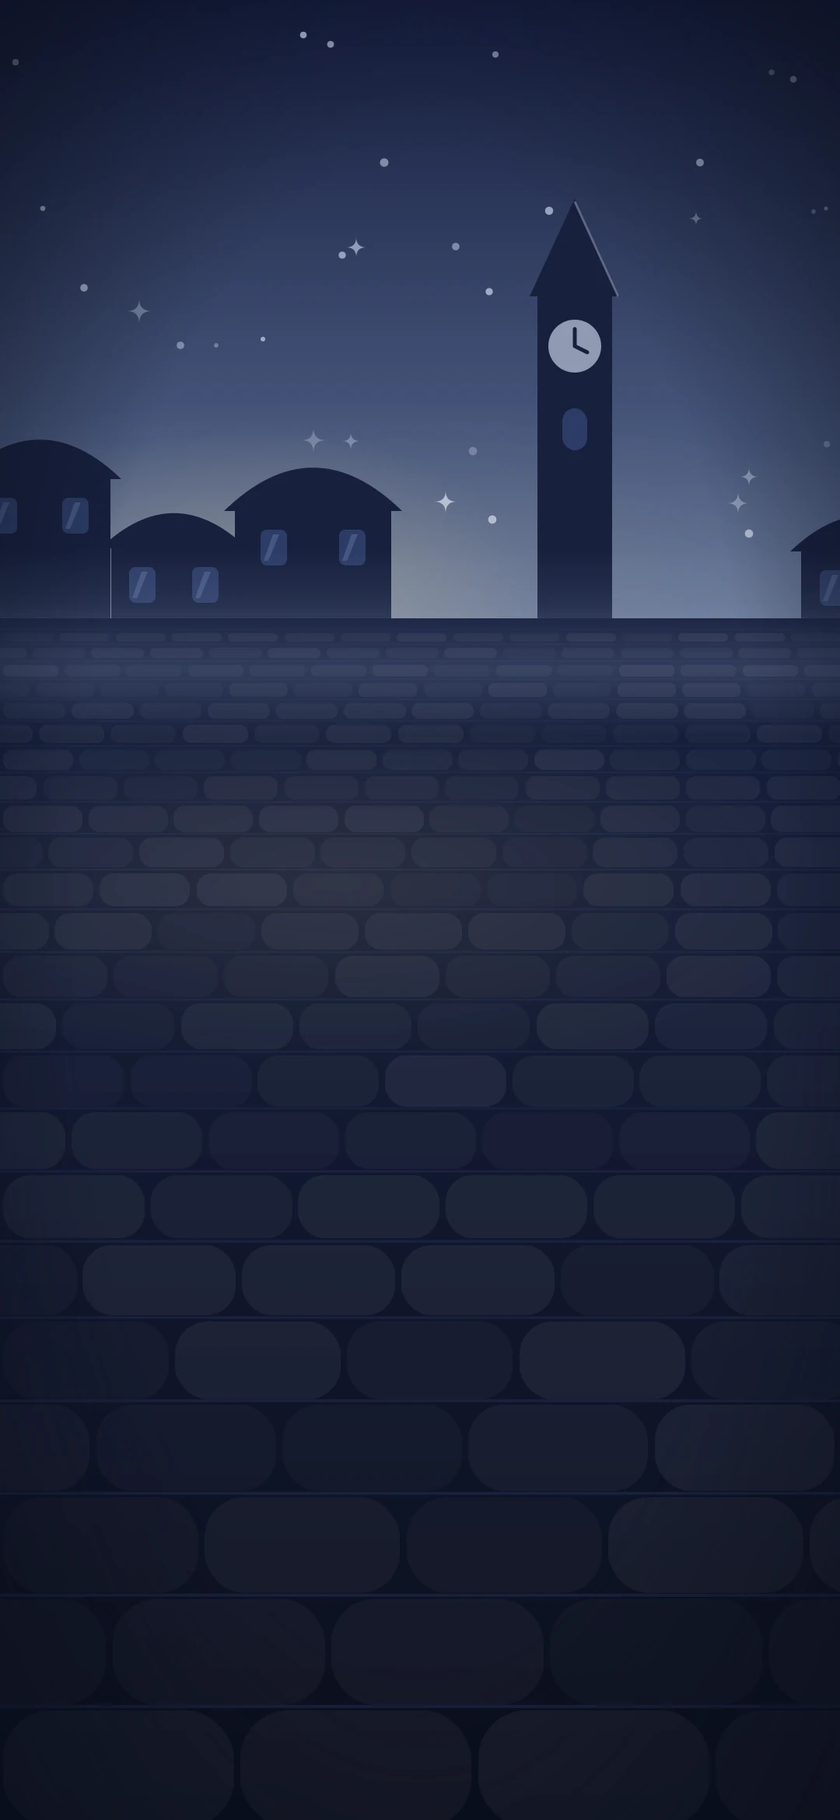
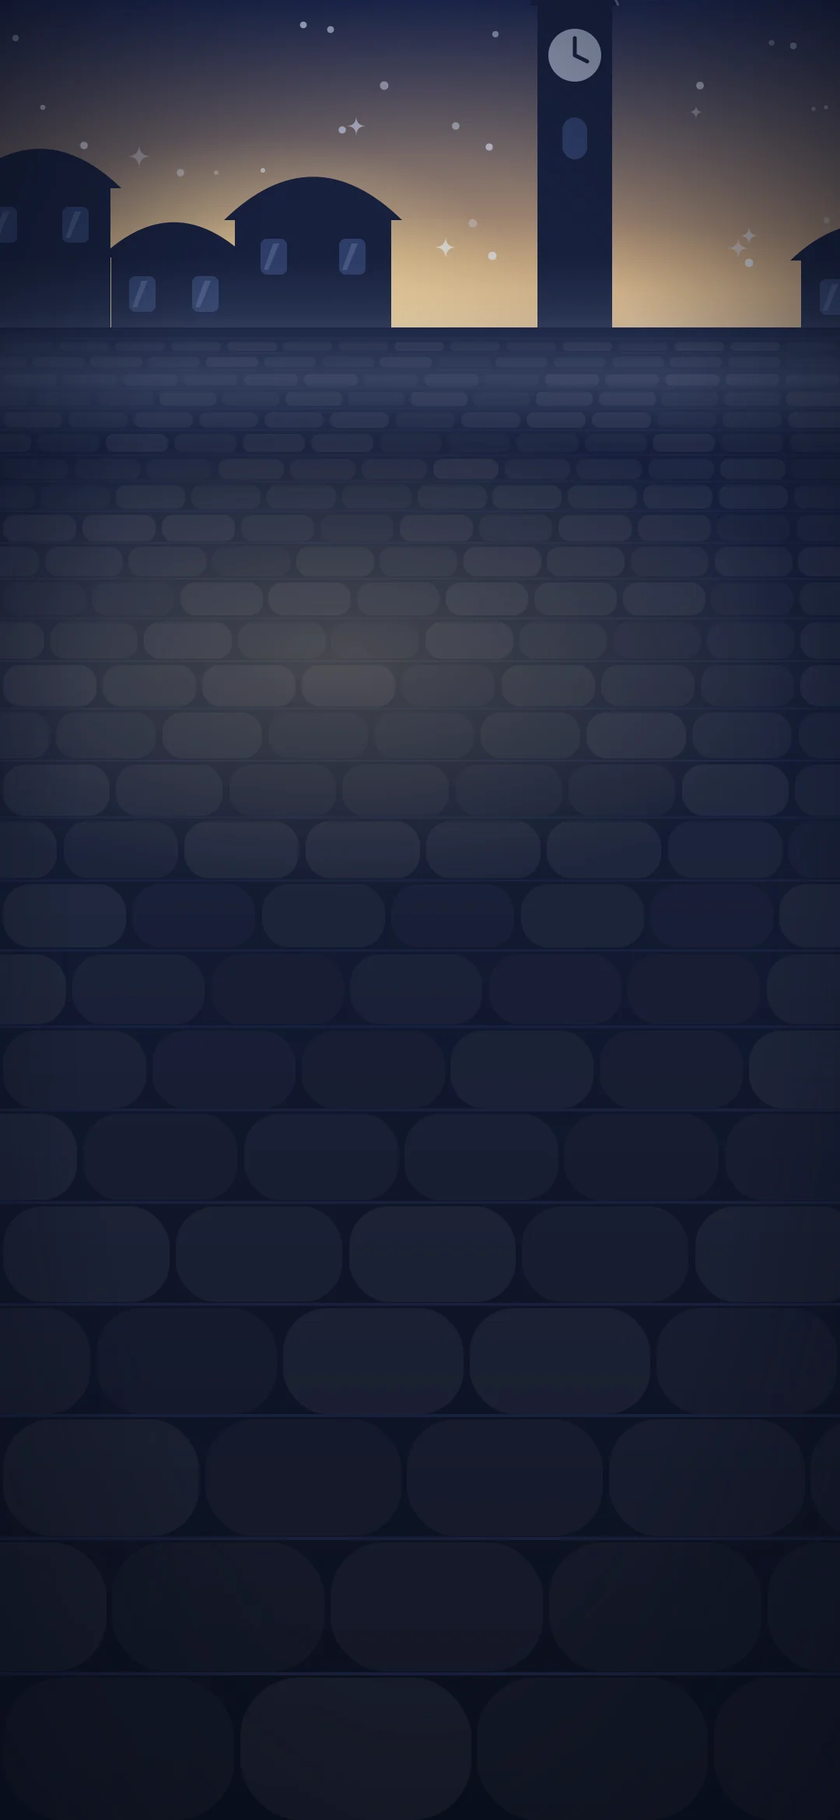
feat(bg): 배경 v3(지평선 18%)·방장 배지 적용, 헤더 막 .80/.70/.55 와 해질녘·처형 막 추가
Claude-Session: https://claude.ai/code/session_01FCTtG9gzLDiavkmfWVt6rc

diff --git a/test/unit/scenes.test.ts b/test/unit/scenes.test.ts
@@ -45,8 +45,8 @@ describe("장면 목록(SCENES)", () => {
     expect(SCENES.verdictDusk.file).toBe("verdict_dusk");
   });
 
-  it("헤더 위쪽 어두운 막은 아침·낮만(set1), entry 구도는 lobby 만 갖는다", () => {
-    expect(SCENE_IDS.filter((id) => SCENES[id].scrim)).toEqual(["morning", "day"]);
+  it("헤더 위쪽 어두운 막은 아침·낮·해질녘·처형만, entry 구도는 lobby 만 갖는다", () => {
+    expect(SCENE_IDS.filter((id) => SCENES[id].scrim)).toEqual(["morning", "day", "dusk", "verdictDusk"]);
     expect(SCENE_IDS.filter((id) => SCENES[id].entry)).toEqual(["lobby"]);
   });
 });
@@ -113,11 +113,11 @@ describe("전환 상수와 헤더 막", () => {
     expect(readFileSync("src/styles/tokens.css", "utf8")).toContain("--dur-slow: 800ms;");
   });
 
-  it("HEADER_SCRIM_STOPS: 시안 .66/.42/.18/0 에서 .70/.58/.40/0 으로 올렸다 (사용자 규칙 4.5:1, 길이 150px 은 그대로)", () => {
+  it("HEADER_SCRIM_STOPS: 시안 .66/.42/.18/0 에서 .70/.58/.40/0, 새 배경(v3)에서 .80/.70/.55/0 으로 올렸다 (사용자 규칙 4.5:1, 길이 150px 은 그대로)", () => {
     expect(HEADER_SCRIM_STOPS).toEqual([
-      [0, 0.7],
-      [60, 0.58],
-      [110, 0.4],
+      [0, 0.8],
+      [60, 0.7],
+      [110, 0.55],
       [150, 0],
     ]);
     expect(HEADER_SCRIM_LENGTH_PX).toBe(150);
@@ -127,9 +127,9 @@ describe("전환 상수와 헤더 막", () => {
   it("headerScrimGradient(): night-900 토큰 color-mix 를 쓰고 150px 끝이 투명이다", () => {
     expect(headerScrimGradient()).toBe(
       "linear-gradient(to bottom, " +
-        "color-mix(in srgb, var(--night-900) 70%, transparent) 0px, " +
-        "color-mix(in srgb, var(--night-900) 58%, transparent) 60px, " +
-        "color-mix(in srgb, var(--night-900) 40%, transparent) 110px, " +
+        "color-mix(in srgb, var(--night-900) 80%, transparent) 0px, " +
+        "color-mix(in srgb, var(--night-900) 70%, transparent) 60px, " +
+        "color-mix(in srgb, var(--night-900) 55%, transparent) 110px, " +
         "color-mix(in srgb, var(--night-900) 0%, transparent) 150px)",
     );
     expect(headerScrimGradient()).not.toMatch(/#[0-9a-f]{3,8}/i);
@@ -148,13 +148,13 @@ const EXPECTED_FILES = [
   "bg_game_verdict_dusk.webp",
 ];
 const LIMIT_KB: Record<string, number> = {
-  "bg_game_lobby.webp": 48,
-  "bg_game_night.webp": 48,
-  "bg_game_dusk.webp": 48,
-  "bg_game_verdict_dusk.webp": 48,
-  "bg_game_morning.webp": 24,
-  "bg_game_day.webp": 24,
-  "bg_entry_lobby.webp": 64,
+  "bg_game_lobby.webp": 40,
+  "bg_game_night.webp": 40,
+  "bg_game_dusk.webp": 40,
+  "bg_game_verdict_dusk.webp": 40,
+  "bg_game_morning.webp": 40,
+  "bg_game_day.webp": 40,
+  "bg_entry_lobby.webp": 52,
 };
 const TOTAL_LIMIT_KB = 260;
 
@@ -171,7 +171,7 @@ describe("public/backgrounds (WebP 일곱 개, 옛 SVG 는 없다)", () => {
     }
   });
 
-  it("장면 하나 ≤ 상한(set2 game 48KB · set1 24KB · entry 64KB), 합계 ≤ 260KB", () => {
+  it("장면 하나 ≤ 상한(game 40KB · entry 52KB), 합계 ≤ 260KB", () => {
     let total = 0;
     for (const name of EXPECTED_FILES) {
       const size = statSync(`public/backgrounds/${name}`).size;
@@ -181,10 +181,11 @@ describe("public/backgrounds (WebP 일곱 개, 옛 SVG 는 없다)", () => {
     expect(total / KB).toBeLessThanOrEqual(TOTAL_LIMIT_KB);
   });
 
-  it("원본(design/backgrounds/A_cute 와 v2)은 그대로 남아 있다", () => {
+  it("원본(design/backgrounds/A_cute·v2·v3)은 그대로 남아 있다", () => {
     expect(existsSync("design/backgrounds/A_cute/bg_entry_lobby.svg")).toBe(true);
     expect(existsSync("design/backgrounds/v2/set2/bg_game_night.png")).toBe(true);
     expect(existsSync("design/backgrounds/v2/set1/bg_game_day.jpg")).toBe(true);
+    expect(existsSync("design/backgrounds/v3/bg_game_night.png")).toBe(true);
   });
 });
 
@@ -196,19 +197,16 @@ describe("scripts/make-backdrops.mjs (SOURCES)", () => {
     expect(SOURCES.map((s) => s.out).sort()).toEqual(EXPECTED_FILES);
   });
 
-  it("원본이 모두 design/backgrounds/v2 안에 있고 파일이 존재한다. 아침·낮은 set1, 나머지는 set2", () => {
+  it("원본이 모두 design/backgrounds/v3 안에 있고 파일이 존재한다", () => {
     for (const s of SOURCES) {
-      expect(s.src.startsWith("design/backgrounds/v2/"), s.src).toBe(true);
+      expect(s.src.startsWith("design/backgrounds/v3/"), s.src).toBe(true);
       expect(existsSync(s.src), s.src).toBe(true);
-      const isSet1 = s.out === "bg_game_morning.webp" || s.out === "bg_game_day.webp";
-      expect(s.src.includes("/set1/"), s.src).toBe(isSet1);
-      expect(s.src.includes("/set2/"), s.src).toBe(!isSet1);
     }
   });
 
-  it("품질 90, 상한은 장면별 예산과 같다", () => {
+  it("품질 86, 상한은 장면별 예산과 같다", () => {
     for (const s of SOURCES) {
-      expect(s.quality).toBe(90);
+      expect(s.quality).toBe(86);
       expect(s.maxKB, s.out).toBe(LIMIT_KB[s.out]);
     }
   });

diff --git a/src/game/scenes.ts b/src/game/scenes.ts
@@ -6,7 +6,7 @@
 //   Record<PhaseId, SceneId> 가 타입 오류로 알려 준다.
 // - 해·달: 그림에 이미 그려져 있고 장면마다 위치가 다르다(아침 해 오른쪽 위 → 낮 해 더 왼쪽·아래, 밤 달). 이미지에서 떼어낼 수 없으므로
 //   따로 그리거나 움직이지 않고 배경 크로스페이드에 맡긴다. 이중으로 보일 수 없다(결정 0030, 확인 필요 1).
-// - 아침·낮은 set1(밝은 하늘)이라 헤더 위쪽에 어두운 막이 필요하다(HEADER_SCRIM_STOPS). 4.5:1 은 오프라인 단위 테스트
+// - 아침·낮(밝은 하늘)과 해질녘·처형(360폭 타이머 4.42)은 헤더 위쪽에 어두운 막이 필요하다(HEADER_SCRIM_STOPS, 결정 0031). 4.5:1 은 오프라인 단위 테스트
 //   (test/unit/backdropContrast.test.ts)와 E2E H1 이 같은 값으로 잰다. 값을 바꾸려면 이 상수 한 곳만 고친다.
 import { DAY_ANNOUNCE_MS } from "../../shared/game/phases";
 import type { PhaseId } from "../../shared/protocol";
@@ -17,7 +17,7 @@ export type SceneId = (typeof SCENE_IDS)[number];
 export interface SceneDef {
   /** 파일 이름 조각: bg_{game|entry}_{file}.webp */
   file: string;
-  /** 헤더 위쪽 어두운 막이 필요한 장면(set1 의 아침·낮) */
+  /** 헤더 위쪽 어두운 막이 필요한 장면(막 없이는 헤더 글씨 대비가 4.5 미만인 장면: v3 의 아침·낮·해질녘·처형) */
   scrim: boolean;
   /** 입구(entry) 구도 그림이 있는 장면 */
   entry: boolean;
@@ -28,8 +28,8 @@ export const SCENES: Readonly<Record<SceneId, SceneDef>> = Object.freeze({
   night: Object.freeze({ file: "night", scrim: false, entry: false }),
   morning: Object.freeze({ file: "morning", scrim: true, entry: false }),
   day: Object.freeze({ file: "day", scrim: true, entry: false }),
-  dusk: Object.freeze({ file: "dusk", scrim: false, entry: false }),
-  verdictDusk: Object.freeze({ file: "verdict_dusk", scrim: false, entry: false }),
+  dusk: Object.freeze({ file: "dusk", scrim: true, entry: false }),
+  verdictDusk: Object.freeze({ file: "verdict_dusk", scrim: true, entry: false }),
 });
 
 export const PHASE_SCENE: Readonly<Record<PhaseId, SceneId>> = Object.freeze({
@@ -73,11 +73,11 @@ export const SCENE_FADE_MS = 800;
 /** 새 그림이 준비되기를 기다리는 상한. 넘으면 준비되지 않았어도 크로스페이드를 시작한다. */
 export const SCENE_IMAGE_WAIT_MS = 1200;
 
-/** 헤더 위쪽 어두운 막: [위에서의 거리 px, night-900 알파]. 시안 Y3·Y5 의 .66/.42/.18/0 은 타이머 구역 대비가 3.5~4.1:1 이라 .70/.58/.40/0 으로 올렸다(길이 150px 은 그대로). */
+/** 헤더 위쪽 어두운 막: [위에서의 거리 px, night-900 알파]. 시안 Y3·Y5 의 .66/.42/.18/0 은 타이머 구역 대비가 3.5~4.1:1 이라 .70/.58/.40/0 으로 올렸고, 지평선 18% 의 새 배경(v3)은 하늘이 더 밝아 .80/.70/.55/0 으로 다시 올렸다(길이 150px 은 그대로). */
 export const HEADER_SCRIM_STOPS: ReadonlyArray<readonly [number, number]> = [
-  [0, 0.7],
-  [60, 0.58],
-  [110, 0.4],
+  [0, 0.8],
+  [60, 0.7],
+  [110, 0.55],
   [150, 0],
 ];
 export const HEADER_SCRIM_LENGTH_PX = 150;

diff --git a/test/client/backdrop.test.tsx b/test/client/backdrop.test.tsx
@@ -187,7 +187,7 @@ describe("Backdrop 층 규칙", () => {
 });
 
 describe("헤더 위쪽 어두운 막", () => {
-  it("아침·낮 층만 인라인 사용자 지정 속성 --mf-scrim 을 싣고, 값은 HEADER_SCRIM_STOPS 의 그라데이션이다", async () => {
+  it("아침·낮·해질녘·처형 층만 인라인 사용자 지정 속성 --mf-scrim 을 싣고, 값은 HEADER_SCRIM_STOPS 의 그라데이션이다", async () => {
     stubImages("immediate");
     const { container, rerender } = render(<Backdrop layout="game" scene="morning" />);
     const scrimOf = () => [...container.querySelectorAll<HTMLElement>(".mf-backdrop__art")].map((el) => el.style.getPropertyValue("--mf-scrim"));
@@ -203,9 +203,18 @@ describe("헤더 위쪽 어두운 막", () => {
     expect(scrimOf()).toEqual([""]);
   });
 
-  it("lobby·night·dusk·verdictDusk 와 entry 층에는 막이 없다", () => {
+  it("해질녘·처형 층도 막을 싣는다 (v3 에서 360폭 타이머 대비가 4.5 미만이라 추가)", () => {
     stubImages("immediate");
-    for (const scene of ["lobby", "night", "dusk", "verdictDusk"] as const) {
+    for (const scene of ["dusk", "verdictDusk"] as const) {
+      const { container, unmount } = render(<Backdrop layout="game" scene={scene} />);
+      expect(container.querySelector<HTMLElement>(".mf-backdrop__art")!.style.getPropertyValue("--mf-scrim"), scene).toBe(headerScrimGradient());
+      unmount();
+    }
+  });
+
+  it("lobby·night 와 entry 층에는 막이 없다", () => {
+    stubImages("immediate");
+    for (const scene of ["lobby", "night"] as const) {
       const { container, unmount } = render(<Backdrop layout="game" scene={scene} />);
       expect(container.querySelector<HTMLElement>(".mf-backdrop__art")!.style.getPropertyValue("--mf-scrim"), scene).toBe("");
       unmount();

diff --git a/test/unit/backdropContrast.test.ts b/test/unit/backdropContrast.test.ts
@@ -166,14 +166,13 @@ describe("막이 필요하다는 사실을 고정한다", () => {
 });
 
 describe("막이 필요한 장면은 SCENES.scrim 과 일치한다", () => {
-  it("막 없이도 4.5 를 넘는 장면에는 막을 달지 않는다 (night·dusk·verdictDusk), 넘지 못하는 아침·낮에는 막이 있다", async () => {
+  it("막이 없는 장면(night)은 세 폭 모두 막 없이 4.5 이상, 막이 있는 장면은 어느 폭에선가 막 없이 4.5 미만이다", async () => {
     for (const scene of GAME_SCENES) {
       if (scene === "lobby") continue;
-      for (const w of WIDTHS) {
-        const bare = await contrastOf(scene, w, timerZone(w), "none");
-        if (SCENES[scene].scrim) expect(bare, `${scene}@${w}`).toBeLessThan(HEADER_CONTRAST_MIN);
-        else expect(bare, `${scene}@${w}`).toBeGreaterThanOrEqual(HEADER_CONTRAST_MIN);
-      }
+      const bares: number[] = [];
+      for (const w of WIDTHS) bares.push(await contrastOf(scene, w, timerZone(w), "none"));
+      if (SCENES[scene].scrim) expect(Math.min(...bares), scene).toBeLessThan(HEADER_CONTRAST_MIN);
+      else for (const b of bares) expect(b, scene).toBeGreaterThanOrEqual(HEADER_CONTRAST_MIN);
     }
   }, 30_000);
 });

diff --git a/src/styles/daytable.css b/src/styles/daytable.css
@@ -65,12 +65,8 @@
 
 /* 캐릭터 상자 안: 동료 마름모, 방장 왕관 배지(대기실만) */
 .mf-dt__mark { position: absolute; top: 4%; right: 8%; width: 26%; height: auto; aspect-ratio: 1; color: var(--crimson-400); pointer-events: none; }
-.mf-dt__crown {
-  position: absolute; left: -6px; top: -6px; width: 22px; height: 22px; border-radius: 50%;
-  background: var(--night-900); border: 1px solid var(--gray-300); color: var(--gray-50);
-  display: grid; place-items: center;
-}
-.mf-dt__crown .mf-icon { stroke-width: 2.2; }
+.mf-dt__crown { position: absolute; left: -6px; top: -6px; width: 22px; height: 22px; pointer-events: none; }
+.mf-dt__crown img { display: block; width: 100%; height: 100%; }
 
 /* 말하는 중(주장 차례·빠른 메시지 3초): 머리 위 '…' 말풍선. 자리 상자 안이라 상자와 함께 줄어들고 자리 쌓임 맥락(12~22)을 벗어나지 않는다.
    높이 26·좌우 11·모서리 13·꼬리 5, 위 -26px(승인 시안은 -30 이지만 8명판 이웃 얼굴을 덮어 -26). 점 셋은 차례로 깜박인다.

diff --git a/test/client/lobby.test.tsx b/test/client/lobby.test.tsx
@@ -74,7 +74,7 @@ describe("Lobby — 대기실 (S-03) 테이블", () => {
   it("방장 혼자면 테이블에 인물 1개뿐이고 빈 자리 그림은 없다", () => {
     render(<Lobby view={makeView([player(0, "민수")], 0)} send={() => {}} />);
     const table = screen.getByRole("group", { name: "테이블" });
-    expect(table.querySelectorAll("img").length).toBe(1);
+    expect(table.querySelectorAll("img.mf-figure").length).toBe(1);
   });
 
   it("끊긴 사람은 '{닉네임}, 연결 끊김' 으로 읽히고 인물이 흑백이다", () => {

diff --git a/src/components/DayTable.tsx b/src/components/DayTable.tsx
@@ -225,7 +225,7 @@ export function DayTable({
             {s.isAlly ? <Icon name="diamond" label={allyMarkLabel} className="mf-dt__mark" /> : null}
             {hostCrown && s.isHost ? (
               <span className="mf-dt__crown" role="img" aria-label="방장">
-                <Icon name="crown" size={13} />
+                <img src="/characters/host/host_badge.svg" alt="" aria-hidden="true" draggable={false} />
               </span>
             ) : null}
             {(s.turn || s.spoke) && !s.emoji ? (

diff --git a/HANDOFF.md b/HANDOFF.md
@@ -4,6 +4,7 @@
 
 ## 현재 상태
 
+- **배경 v3·유령·방장 배지(2026-10-26, 결정 0031) — 코드 적용, 미배포, 폰 확인 대기.** 배포본은 아직 `2026-10-26T01:57:25Z+e717ac0`(유령 교체 `06a4d07` 은 main 에만 있음). ① 배경: 데스크톱 v3(`design/backgrounds/v3/`, 지평선 18%, 사람이 하늘에 뜨던 문제 해결) → WebP 합계 231.9KB(품질 86) ② 밤 조명 3장(대기실·밤·처형 해질녘)은 조명 중심 (540, 915) 로 다시 받음 ③ 헤더 막 .80/.70/.55/0 + 해질녘·처형에도 막(360폭 타이머 4.42) ④ 새 유령(그림자 제거·발 y=374 정렬) ⑤ 방장 배지 `host_badge.svg` ⑥ D3b-5(5명판 98%) 유지. **정정**: 인자 없는 `npm run e2e` 는 배포본을 검사한다 — 로컬은 `npm run dev` 후 `npm run e2e -- --url http://localhost:5173`. 로컬 결과: 6흐름×3크기 통과, vitest 1895, E2E 단위 107. 남은 일: 폰 확인(후광·낮 느낌·낮밤 색 차이)과 배포·배포본 smoke/UAT/E2E.
 - **시각 개선 묶음(quick 261025-unr, 2026-10-25~26) — 근거 결정 0030.** 코드·테스트·E2E 규칙·결정·UI-SPEC 완료. 배포·push 완료, 실기기 확인 대기. **배포 버전 `2026-10-26T01:57:25Z+e717ac0`**(직전 `2026-10-25T11:40:42Z+d2af5a9`), 개인 Cloudflare 계정(`npx wrangler whoami` = dhkim1522@naver.com, `wrangler.jsonc` name = minifia)으로 Worker `minifia` 만 배포했다.
   - **무엇이 바뀌었나**: ① 발밑 원 전부(차례 링 앞뒤 호·내 링·동료 링·밤 선택 링)와 이름표 반전·머리 위 배지 제거 → 캐릭터 윤곽 **후광**(말하는 차례·밤에 내가 고른 대상은 흰, 마피아 동료·관전자 화면의 모든 마피아는 진홍, 안쪽 2px + 바깥 9px drop-shadow, 한 화면 최대 3개, 내 표시는 이름표 테두리뿐) ② 머리 위 **'…' 말풍선**(48×26, 위 −26px; 주장 차례 + 토론 빠른 메시지 3초, 이모티콘이 오면 이모티콘이 대신) ③ 방장 왕관은 **대기실에서만** ④ 낮 시작 전용 `Day` 화면 삭제 — `dayAnnounce` 도 테이블 장면 위, 밤·낮 시작 문구는 `SceneIntro` 한 부품(2초, 재접속·처음 마운트 제외) ⑤ 배경: 장면 6개(`src/game/scenes.ts` `SCENES`)·단계→장면 규칙표 `PHASE_SCENE`·WebP 7개(합계 248.0KB, 옛 SVG 합 약 356KB)·장면 사이 0.8초 크로스페이드·아침·낮(set1 밝은 하늘) 헤더 어두운 막 `HEADER_SCRIM_STOPS` .70/.58/.40/0 ⑥ 해·달은 이미지에 맡김(선택 B, 따로 움직이지 않음) ⑦ 봇 이름 5글자(봇가나다라·봇마바사아·봇자차카타·봇파하갸냐·봇더러머버·봇서어저처·봇커터퍼허) ⑧ 서버 규칙·시간·와이어·좌석 번호·낮 차례 순서는 불변(서버 쪽 변경은 `shared/game/bots.ts` 봇 이름 상수 한 줄).
   - **E2E**: 새 규칙 W1(왕관)·H1(헤더 제목·타이머 글씨 대비 ≥ 4.5)·B1(배경 장면)·N8·N9(낮 시작 문구), 개정 K1·K4(후광), T1 에 낮 시작 포함. 기준 수치(OVERLAP_EPS 0.5·ONE_LINE_FACTOR 1.6·FACE_RATIO 0.45·TAP_MIN 44·PANEL_H 157)와 허용 목록(TEXT_SIZE_ALLOW = `.mf-journal__new`·`.mf-tt*` 뿐)은 불변. **승인된 완화는 이제 M1·D3a/D3b·D4·D3b-5 네 건**: D3b-5 는 사용자 승인(2026-10-26)으로 5명판 이름표 보이는 비율 바닥만 99.9% → 98.0% — 앞쪽 옆자리가 탈락해 유령 그림이 되면 그 머리 윗부분이 뒤쪽 이웃의 5글자 이름표를 약 0.4% 덮는다(4명 100%·6명 85%·7명 50%·8명 55% 불변).

diff --git a/docs/decisions/0031-background-v3-and-assets.md b/docs/decisions/0031-background-v3-and-assets.md
@@ -1,0 +1,31 @@
+# 0031. 배경 v3(지평선 18%)와 유령·방장 배지 새 에셋
+
+- 날짜: 2026-10-26
+- 상태: 코드 적용(미배포). 폰 확인 대기
+- 이전: 0029(배경 v2), 0030(시각 개선 묶음)
+
+## 배경
+
+폰에서 보니 테이블과 맨 뒤 사람이 하늘에 떠 있는 것처럼 보였다. 옛 그림의 지평선(하늘과 바닥 경계)이 390폭 기준 y≈287(34%)이고 맨 뒤 사람 발끝이 y≈229~248이라 사람이 하늘 영역에 서 있었다. 그림과 테이블 구도가 따로 정해진 탓이다.
+
+## 결정
+
+1. **배경 v3**: 데스크톱에서 다시 만든 게임 구도 7장·입구 lobby 1장을 `design/backgrounds/v3/` 에 둔다. 지평선은 18%(390폭 y≈152). 맨 뒤 사람 발끝은 모든 인원·폭에서 지평선보다 61~107px 아래라 전원이 돌바닥 위에 선다(대기실 4~8명, 360·390·430폭 실측).
+2. **조명 위치 요청**: 밤(대기실·밤)과 처형(해질녘)의 바닥 조명이 y≈1170(이미지 좌표)로 테이블(y≈915)보다 아래라 앞은 밝고 뒤는 어두웠다. 세 장만 (540, 915) 중심으로 다시 받았다. 아침·낮·해질녘은 요청하지 않았다(바닥이 고르거나 이미 테이블 쪽이 밝음).
+3. **변환**: WebP 품질 90 → 86(합계 231.9KB, 상한 260KB). 장면당 상한 game 40KB·entry 52KB. v2 원본은 그대로 둔다.
+4. **헤더 막**: 새 하늘이 더 밝아 막 알파를 .70/.58/.40/0 에서 **.80/.70/.55/0** 으로 올렸고(길이 150px 불변), 360폭 타이머 대비가 4.42 였던 **해질녘·처형에도 막**을 달았다. 헤더 글씨 대비 기준 4.5:1 은 그대로다.
+5. **입구 구도**: 앱은 `bg_entry_lobby` 한 장만 쓴다. 나머지 입구 그림은 필요 없다.
+6. **유령**: 새 그림(높이 330)은 바닥 그림자가 있고 발이 캐릭터보다 위였다. 그림자를 지우고 몸을 27px(@4x) 내려 발끝 y=374 로 맞춰 적용했다(원본은 데스크톱에 남아 있으니 다시 내보내면 같은 수정이 필요).
+7. **방장 배지**: `host_badge.svg`(원형 배경 + 금색 왕관)를 22px 자리에 그대로 교체했다. 출처 메타데이터는 제거했다. 대기실에서만 보인다(0030-3).
+8. **D3b-5 완화(5명판 98.0%)는 유지**: 새 유령으로 되돌릴 근거가 없다. 로컬 E2E 6회는 99.9%에서 통과했지만 유령이 이웃 이름표를 가리는 상황이 실제로 나왔는지 기록되지 않았고, 좌표 모델로는 옛 유령의 0.4% 겹침도 재현되지 않았다.
+
+## 검증과 정정
+
+- 이 세션에서 인자 없는 `npm run e2e` 는 **배포본**을 검사한다. 유령 교체 직후와 v3 적용 직후에 보고한 "E2E 통과"는 배포본 결과였다. 로컬 개발 서버(`--url http://localhost:5173`)로 다시 돌린 결과: 6개 흐름 × 3개 크기 통과(준비 단계 S4 흔들림 한 번은 재실행 3회 모두 통과).
+- 단위 테스트 1895건 통과, E2E 단위 107건 통과.
+
+## 알려진 한계
+
+- 하늘이 보이는 구간이 헤더 밑 약 30~50px 뿐이라 해·달이 뜨는 연출(0030-5 A안)은 이 배경으로는 어렵다.
+- 낮·아침은 막이 진해져 위쪽이 어둡다. 낮 느낌이 약해 보이면 하늘 색을 바꾼 그림이 필요하다.
+- 낮·밤 바닥 색 차이가 커서 크로스페이드 때 튈 수 있다(폰 확인).

diff --git a/design/backgrounds/v3/BACKGROUND_SPEC.md b/design/backgrounds/v3/BACKGROUND_SPEC.md
@@ -1,0 +1,32 @@
+# 미니피아 배경 에셋 규격
+
+## 구성
+- 장면 7종: lobby(입장·대기·배정, 밤), night(밤), verdict(투표·변론·처형, 밤), morning(아침), day(낮, 오후), dusk(해질녘), verdict_dusk(투표·변론·처형, 해질녘)
+- 화면 구도 2종: game(지평선 높이 0.34, 테이블이 광장 위에 놓임), entry(지평선 0.58, 큰 달과 양옆 집, 입장 화면)
+- 그림체: A_cute(둥글고 귀여운 면 색, 확정)
+- 파일 이름: bg_<구도>_<장면>.png (예: bg_game_night.png), 원본 SVG 같이 제공
+
+## 크기와 사용
+- 1080×2340 PNG, 불투명. 가로:세로 약 9:19.5
+- 앱에서는 background-size: cover, 위치는 가운데 위쪽 기준
+- 글자는 장면 위에 바로 올리지 않고 단계 바·시트·버튼처럼 바탕 있는 부품에 올려요
+- 장면은 장식이라 aria-hidden, 움직임 없음. 전환은 0.8초 교차 페이드
+
+## 색 (디자인 시스템 토큰만 사용)
+- 하늘: night-950/night-900 → sky-moonlit(lobby), sky-night(night·verdict), dawn → morning(day)
+- 달 moon #dde3f0, 달무리 moon-halo, 별 star, 안개 fog, 먼 마을 town-far, 가까운 집 town-near, 바닥 ground
+- 낮은 town-far-day, town-near-day, ground-day
+- 보라·분홍·주황, 따뜻한 창문 불빛, 진홍은 쓰지 않아요. 창문은 불 꺼진 유리에 달빛 반사만 있어요
+
+## 안전 영역
+- game: 위쪽 20%(단계 바)는 하늘만, 가운데 아래 55%는 광장 바닥으로 비워서 테이블을 올려요
+- entry: 아래쪽 40%는 광장 바닥으로 비워서 제목과 입력칸을 올려요
+
+## 장면별 차이
+- lobby: 달 쪽 하늘이 밝은 기본 밤
+- night: 구름에 가린 작은 달, 박쥐, 짙은 안개
+- morning: 달 없음, 밝은 푸른 회색 하늘, 높이 뜬 해, 흰 구름
+- day: 낮(오후). 하늘 아래쪽과 해, 구름에 노란 기운, 바닥에 따뜻한 빛 (디자인 시스템의 회청색 규칙에서 요청으로 벗어난 장면)
+- verdict: 흐린 달, 위에서 떨어지는 조명 기둥과 바닥 조명 타원
+- verdict_dusk: 해질녘에 투표하고 처형하는 장면. 해질녘 하늘과 노을 위에 위에서 떨어지는 조명 기둥과 바닥 조명 타원
+- dusk: 해질녘. 위는 어두운 남색, 지평선 쪽만 채도를 낮춘 모래빛 노을, 마을 뒤로 낮게 걸린 해, 어두운 건물 실루엣, 드문 별. 보라·분홍 없이 남색과 약한 호박빛 안에서 만듦
